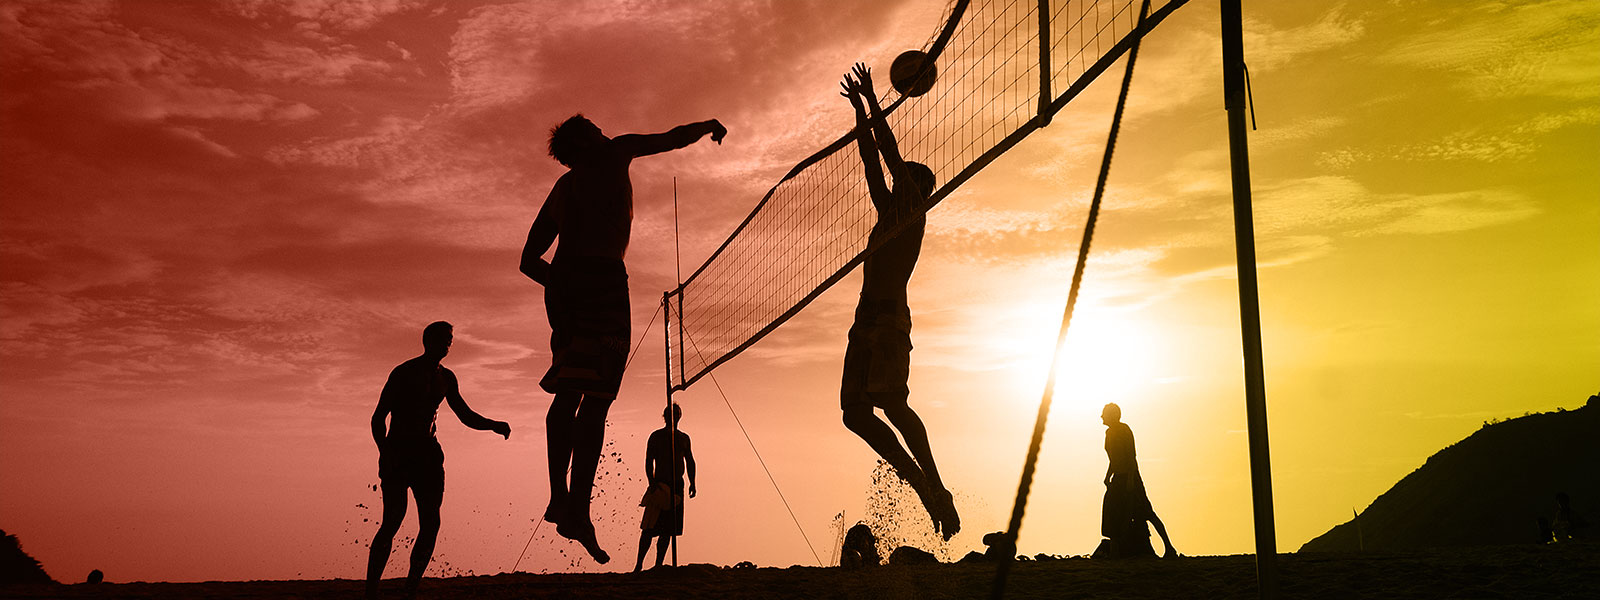
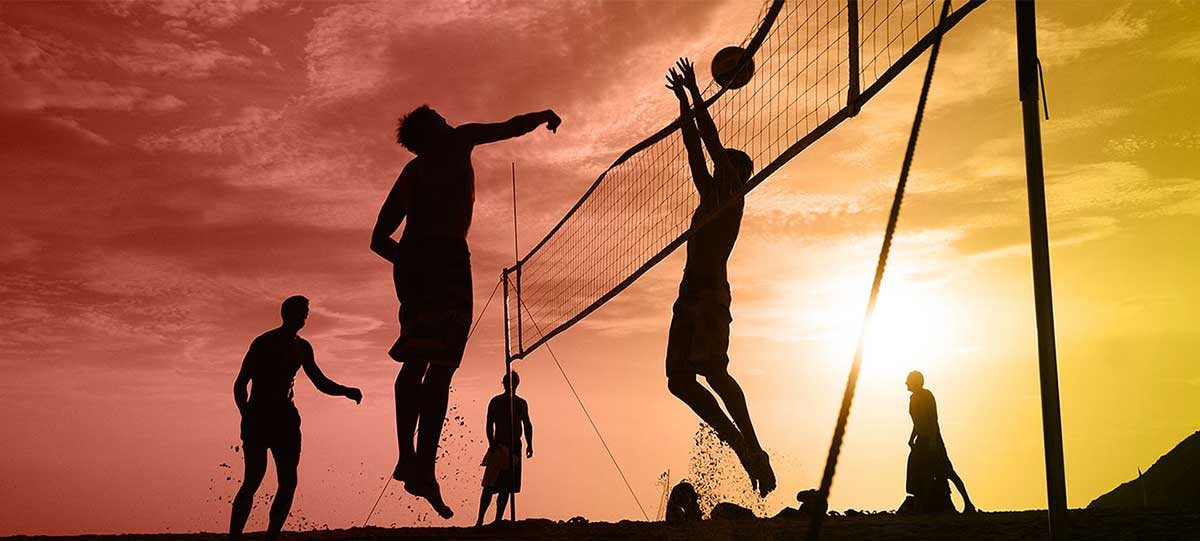
fixed carousel

diff --git a/TeamUp/public/stylesheets/home.css b/TeamUp/public/stylesheets/home.css
@@ -2,19 +2,8 @@
   text-align: center;
 }
 
-#myCarousel{
-  z-index: 0;
-}
-
-body {
-  /* The image used */
-  /* background-image: url("/assets/images/raster/jpg/home-page.jpg"); */
-
-  /* Create the parallax scrolling effect */
-  background-attachment: fixed;
-  background-position: center;
-  background-repeat: no-repeat;
-  background-size: cover;
+.carousel img {
+    min-width: 100%;
 }
 
 h2.header {
@@ -115,23 +104,4 @@ h2.header {
 
 form .error {
   color: indianred;
-}
-
-#myCarousel {
-  margin: 2em;
-}
-
-.carousel-inner > .item {
-  height: 400px;
-}
-
-.carousel-inner > .item > img {
-  position: absolute;
-  top: 50%;
-  left: 50%;
-  -webkit-transform: translate(-50%, -50%);
-  -ms-transform: translate(-50%, -50%);
-  transform: translate(-50%, -50%);
-  max-height: 800px;
-  width: auto;
 }
